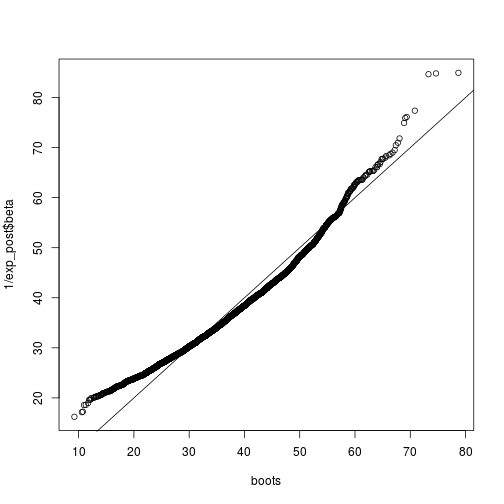
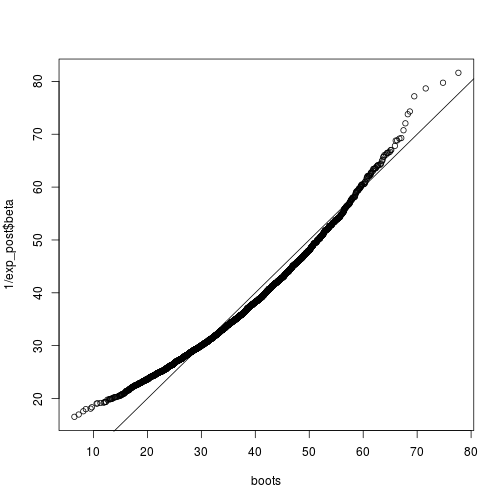
simple fixes to prius post

diff --git a/_site/Prius/index.html b/_site/Prius/index.html
@@ -64,84 +64,11 @@
 
 <p>Load the relevant libraries:</p>
 
-<div class="language-r highlighter-rouge"><pre class="highlight"><code><span class="n">library</span><span class="p">(</span><span class="n">magrittr</span><span class="p">)</span><span class="w">
-</span><span class="n">library</span><span class="p">(</span><span class="n">tidyverse</span><span class="p">)</span><span class="w">
-</span></code></pre>
-</div>
-
-<div class="highlighter-rouge"><pre class="highlight"><code>## Loading tidyverse: ggplot2
-## Loading tidyverse: tibble
-## Loading tidyverse: tidyr
-## Loading tidyverse: readr
-## Loading tidyverse: purrr
-## Loading tidyverse: dplyr
-</code></pre>
-</div>
-
-<div class="highlighter-rouge"><pre class="highlight"><code>## Conflicts with tidy packages ----------------------------------------------
-</code></pre>
-</div>
-
-<div class="highlighter-rouge"><pre class="highlight"><code>## filter(): dplyr, stats
-## lag():    dplyr, stats
-</code></pre>
-</div>
-
-<div class="language-r highlighter-rouge"><pre class="highlight"><code><span class="n">library</span><span class="p">(</span><span class="n">lubridate</span><span class="p">)</span><span class="w">
-</span></code></pre>
-</div>
-
-<div class="highlighter-rouge"><pre class="highlight"><code>## Loading required package: methods
-</code></pre>
-</div>
-
-<div class="highlighter-rouge"><pre class="highlight"><code>## 
-## Attaching package: 'lubridate'
-</code></pre>
-</div>
-
-<div class="highlighter-rouge"><pre class="highlight"><code>## The following object is masked from 'package:base':
-## 
-##     date
-</code></pre>
-</div>
-
-<div class="language-r highlighter-rouge"><pre class="highlight"><code><span class="n">library</span><span class="p">(</span><span class="n">rstan</span><span class="p">)</span><span class="w">
-</span></code></pre>
-</div>
-
-<div class="highlighter-rouge"><pre class="highlight"><code>## Loading required package: StanHeaders
-</code></pre>
-</div>
-
-<div class="highlighter-rouge"><pre class="highlight"><code>## rstan (Version 2.15.1, packaged: 2017-04-19 05:03:57 UTC, GitRev: 2e1f913d3ca3)
-</code></pre>
-</div>
-
-<div class="highlighter-rouge"><pre class="highlight"><code>## For execution on a local, multicore CPU with excess RAM we recommend calling
-## rstan_options(auto_write = TRUE)
-## options(mc.cores = parallel::detectCores())
-</code></pre>
-</div>
-
-<div class="highlighter-rouge"><pre class="highlight"><code>## 
-## Attaching package: 'rstan'
-</code></pre>
-</div>
-
-<div class="highlighter-rouge"><pre class="highlight"><code>## The following object is masked from 'package:tidyr':
-## 
-##     extract
-</code></pre>
-</div>
-
-<div class="highlighter-rouge"><pre class="highlight"><code>## The following object is masked from 'package:magrittr':
-## 
-##     extract
-</code></pre>
-</div>
-
-<div class="language-r highlighter-rouge"><pre class="highlight"><code><span class="n">rstan_options</span><span class="p">(</span><span class="n">auto_write</span><span class="w"> </span><span class="o">=</span><span class="w"> </span><span class="kc">TRUE</span><span class="p">)</span><span class="w">
+<div class="language-r highlighter-rouge"><pre class="highlight"><code><span class="n">suppressMessages</span><span class="p">(</span><span class="n">library</span><span class="p">(</span><span class="n">magrittr</span><span class="p">))</span><span class="w">
+</span><span class="n">suppressMessages</span><span class="p">(</span><span class="n">library</span><span class="p">(</span><span class="n">tidyverse</span><span class="p">))</span><span class="w">
+</span><span class="n">suppressMessages</span><span class="p">(</span><span class="n">library</span><span class="p">(</span><span class="n">lubridate</span><span class="p">))</span><span class="w">
+</span><span class="n">suppressMessages</span><span class="p">(</span><span class="n">library</span><span class="p">(</span><span class="n">rstan</span><span class="p">))</span><span class="w">
+</span><span class="n">rstan_options</span><span class="p">(</span><span class="n">auto_write</span><span class="w"> </span><span class="o">=</span><span class="w"> </span><span class="kc">TRUE</span><span class="p">)</span><span class="w">
 </span><span class="n">options</span><span class="p">(</span><span class="n">mc.cores</span><span class="w"> </span><span class="o">=</span><span class="w"> </span><span class="n">parallel</span><span class="o">::</span><span class="n">detectCores</span><span class="p">())</span><span class="w">
 </span></code></pre>
 </div>
@@ -199,7 +126,7 @@
   }
 "</span><span class="w">
 
-</span><span class="n">stan_exp</span><span class="w"> </span><span class="o">&lt;-</span><span class="w"> </span><span class="n">stan_model</span><span class="p">(</span><span class="n">model_code</span><span class="o">=</span><span class="n">stan_string</span><span class="p">)</span><span class="w"> 
+</span><span class="n">stan_exp</span><span class="w"> </span><span class="o">&lt;-</span><span class="w"> </span><span class="nf">invisible</span><span class="p">(</span><span class="n">stan_model</span><span class="p">(</span><span class="n">model_code</span><span class="o">=</span><span class="n">stan_string</span><span class="p">))</span><span class="w">
 </span></code></pre>
 </div>
 
@@ -211,7 +138,7 @@
 ##                  from /home/silastittes/R/x86_64-pc-linux-gnu-library/3.4/StanHeaders/include/stan/math/rev/mat.hpp:4,
 ##                  from /home/silastittes/R/x86_64-pc-linux-gnu-library/3.4/StanHeaders/include/stan/math.hpp:4,
 ##                  from /home/silastittes/R/x86_64-pc-linux-gnu-library/3.4/StanHeaders/include/src/stan/model/model_header.hpp:4,
-##                  from file3e74f4e381.cpp:8:
+##                  from filea2279816380.cpp:8:
 ## /home/silastittes/R/x86_64-pc-linux-gnu-library/3.4/BH/include/boost/config/compiler/gcc.hpp:186:0: warning: "BOOST_NO_CXX11_RVALUE_REFERENCES" redefined
 ##  #  define BOOST_NO_CXX11_RVALUE_REFERENCES
 ##  ^
@@ -253,10 +180,10 @@
 ## post-warmup draws per chain=1000, total post-warmup draws=4000.
 ## 
 ##        mean se_mean   sd   2.5%    25%    50%    75%  97.5% n_eff Rhat
-## beta   0.03    0.00 0.01   0.02   0.02   0.03   0.03   0.04  1518    1
-## lp__ -82.14    0.02 0.67 -84.08 -82.29 -81.89 -81.70 -81.65  1747    1
+## beta   0.03    0.00 0.01   0.02   0.02   0.03   0.03   0.04  1400    1
+## lp__ -82.15    0.02 0.67 -84.07 -82.33 -81.89 -81.71 -81.65  1885    1
 ## 
-## Samples were drawn using NUTS(diag_e) at Thu Aug 31 00:35:01 2017.
+## Samples were drawn using NUTS(diag_e) at Thu Aug 31 00:44:22 2017.
 ## For each parameter, n_eff is a crude measure of effective sample size,
 ## and Rhat is the potential scale reduction factor on split chains (at 
 ## convergence, Rhat=1).
@@ -288,16 +215,17 @@
 
 <p>Compute credible interval of expected wait time</p>
 
-<div class="language-r highlighter-rouge"><pre class="highlight"><code><span class="n">quantile</span><span class="p">(</span><span class="m">1</span><span class="o">/</span><span class="n">exp_post</span><span class="o">$</span><span class="n">beta</span><span class="p">,</span><span class="w"> </span><span class="nf">c</span><span class="p">(</span><span class="m">0.025</span><span class="p">,</span><span class="w"> </span><span class="m">0.975</span><span class="p">))</span><span class="w">
+<div class="language-r highlighter-rouge"><pre class="highlight"><code><span class="n">cred1</span><span class="w"> </span><span class="o">&lt;-</span><span class="w"> </span><span class="n">quantile</span><span class="p">(</span><span class="m">1</span><span class="o">/</span><span class="n">exp_post</span><span class="o">$</span><span class="n">beta</span><span class="p">,</span><span class="w"> </span><span class="nf">c</span><span class="p">(</span><span class="m">0.025</span><span class="p">,</span><span class="w"> </span><span class="m">0.975</span><span class="p">))</span><span class="w">
+</span><span class="n">cred1</span><span class="w">
 </span></code></pre>
 </div>
 
 <div class="highlighter-rouge"><pre class="highlight"><code>##     2.5%    97.5% 
-## 22.73419 56.80090
+## 22.83755 56.49961
 </code></pre>
 </div>
 
-<p>So there’s a 95% chance the expected wait time between Prius spottings is 23 to 56 seconds.</p>
+<p>So there’s a 95% chance the expected wait time between Prius spottings is between 23 and 56 seconds.</p>
 
 <p>We can also easily see the probability that the expected wait time is less than, say, one minute.</p>
 
@@ -305,7 +233,7 @@
 </span></code></pre>
 </div>
 
-<div class="highlighter-rouge"><pre class="highlight"><code>## [1] 0.98275
+<div class="highlighter-rouge"><pre class="highlight"><code>## [1] 0.984
 </code></pre>
 </div>
 
@@ -324,7 +252,7 @@
 </span></code></pre>
 </div>
 
-<div class="highlighter-rouge"><pre class="highlight"><code>## [1] 0.233
+<div class="highlighter-rouge"><pre class="highlight"><code>## [1] 0.23225
 </code></pre>
 </div>
 
@@ -367,7 +295,7 @@
 </div>
 
 <div class="highlighter-rouge"><pre class="highlight"><code>##      2.5%     97.5% 
-## 0.8450941 4.5581589
+## 0.8555985 4.3690368
 </code></pre>
 </div>
 
@@ -395,7 +323,7 @@ Let’s see how the approximate confidence interval for the expected wait time f
 </div>
 
 <div class="highlighter-rouge"><pre class="highlight"><code>##     2.5%    97.5% 
-## 18.11765 56.94265
+## 18.47059 57.05882
 </code></pre>
 </div>
 

diff --git a/_posts/2017-08-30-Prius.md b/_posts/2017-08-30-Prius.md
@@ -15,83 +15,10 @@ Below is some code I've thrown together to analyze the data I collected. The obj
 Load the relevant libraries:
 
 ```r
-library(magrittr)
-library(tidyverse)
-```
-
-```
-## Loading tidyverse: ggplot2
-## Loading tidyverse: tibble
-## Loading tidyverse: tidyr
-## Loading tidyverse: readr
-## Loading tidyverse: purrr
-## Loading tidyverse: dplyr
-```
-
-```
-## Conflicts with tidy packages ----------------------------------------------
-```
-
-```
-## filter(): dplyr, stats
-## lag():    dplyr, stats
-```
-
-```r
-library(lubridate)
-```
-
-```
-## Loading required package: methods
-```
-
-```
-## 
-## Attaching package: 'lubridate'
-```
-
-```
-## The following object is masked from 'package:base':
-## 
-##     date
-```
-
-```r
-library(rstan)
-```
-
-```
-## Loading required package: StanHeaders
-```
-
-```
-## rstan (Version 2.15.1, packaged: 2017-04-19 05:03:57 UTC, GitRev: 2e1f913d3ca3)
-```
-
-```
-## For execution on a local, multicore CPU with excess RAM we recommend calling
-## rstan_options(auto_write = TRUE)
-## options(mc.cores = parallel::detectCores())
-```
-
-```
-## 
-## Attaching package: 'rstan'
-```
-
-```
-## The following object is masked from 'package:tidyr':
-## 
-##     extract
-```
-
-```
-## The following object is masked from 'package:magrittr':
-## 
-##     extract
-```
-
-```r
+suppressMessages(library(magrittr))
+suppressMessages(library(tidyverse))
+suppressMessages(library(lubridate))
+suppressMessages(library(rstan))
 rstan_options(auto_write = TRUE)
 options(mc.cores = parallel::detectCores())
 ```
@@ -155,7 +82,7 @@ stan_string <- "
   }
 "
 
-stan_exp <- stan_model(model_code=stan_string) 
+stan_exp <- invisible(stan_model(model_code=stan_string))
 ```
 
 ```
@@ -167,7 +94,7 @@ stan_exp <- stan_model(model_code=stan_string)
 ##                  from /home/silastittes/R/x86_64-pc-linux-gnu-library/3.4/StanHeaders/include/stan/math/rev/mat.hpp:4,
 ##                  from /home/silastittes/R/x86_64-pc-linux-gnu-library/3.4/StanHeaders/include/stan/math.hpp:4,
 ##                  from /home/silastittes/R/x86_64-pc-linux-gnu-library/3.4/StanHeaders/include/src/stan/model/model_header.hpp:4,
-##                  from file3e74f4e381.cpp:8:
+##                  from filea2279816380.cpp:8:
 ## /home/silastittes/R/x86_64-pc-linux-gnu-library/3.4/BH/include/boost/config/compiler/gcc.hpp:186:0: warning: "BOOST_NO_CXX11_RVALUE_REFERENCES" redefined
 ##  #  define BOOST_NO_CXX11_RVALUE_REFERENCES
 ##  ^
@@ -213,10 +140,10 @@ print(stan_fit)
 ## post-warmup draws per chain=1000, total post-warmup draws=4000.
 ## 
 ##        mean se_mean   sd   2.5%    25%    50%    75%  97.5% n_eff Rhat
-## beta   0.03    0.00 0.01   0.02   0.02   0.03   0.03   0.04  1518    1
-## lp__ -82.14    0.02 0.67 -84.08 -82.29 -81.89 -81.70 -81.65  1747    1
+## beta   0.03    0.00 0.01   0.02   0.02   0.03   0.03   0.04  1400    1
+## lp__ -82.15    0.02 0.67 -84.07 -82.33 -81.89 -81.71 -81.65  1885    1
 ## 
-## Samples were drawn using NUTS(diag_e) at Thu Aug 31 00:35:01 2017.
+## Samples were drawn using NUTS(diag_e) at Thu Aug 31 00:44:22 2017.
 ## For each parameter, n_eff is a crude measure of effective sample size,
 ## and Rhat is the potential scale reduction factor on split chains (at 
 ## convergence, Rhat=1).
@@ -252,15 +179,16 @@ Compute credible interval of expected wait time
 
 
 ```r
-quantile(1/exp_post$beta, c(0.025, 0.975))
+cred1 <- quantile(1/exp_post$beta, c(0.025, 0.975))
+cred1
 ```
 
 ```
 ##     2.5%    97.5% 
-## 22.73419 56.80090
+## 22.83755 56.49961
 ```
 
-So there's a 95% chance the expected wait time between Prius spottings is 23 to 56 seconds.
+So there's a 95% chance the expected wait time between Prius spottings is between 23 and 56 seconds.
 
 We can also easily see the probability that the expected wait time is less than, say, one minute. 
 
@@ -270,7 +198,7 @@ mean(1/exp_post$beta < 60)
 ```
 
 ```
-## [1] 0.98275
+## [1] 0.984
 ```
 
 Also valuable in a Bayesian framework is the ability to conduct posterior predictive checks. We can use posterior draws of the rate parameter, and generate simulated data from this exponential distribution. Perhaps the wait times have more variation than the exponential distribution allows for. We simply need to compare the observed variation to that of the simulated data sets:
@@ -290,7 +218,7 @@ mean(pred_var > var(wt_times$wait))
 ```
 
 ```
-## [1] 0.233
+## [1] 0.23225
 ```
 
 There's a ~0.23% probability of simulated data having variation greater than the observed. This isn't too far off. The nearer to 50%, the more consistent the simulated data and observed. The exponential distribution model as-is seems fairly adequate.
@@ -338,7 +266,7 @@ quantile(pred_max/60, c(0.025, 0.975))
 
 ```
 ##      2.5%     97.5% 
-## 0.8450941 4.5581589
+## 0.8555985 4.3690368
 ```
 
 Wow, the model predicts wait times should pretty much always be less than five minutes. That's a lot of Prii are flashing past your face!
@@ -367,7 +295,7 @@ quantile(boots, c(0.025, 0.975))
 
 ```
 ##     2.5%    97.5% 
-## 18.11765 56.94265
+## 18.47059 57.05882
 ```
 
 ```r
